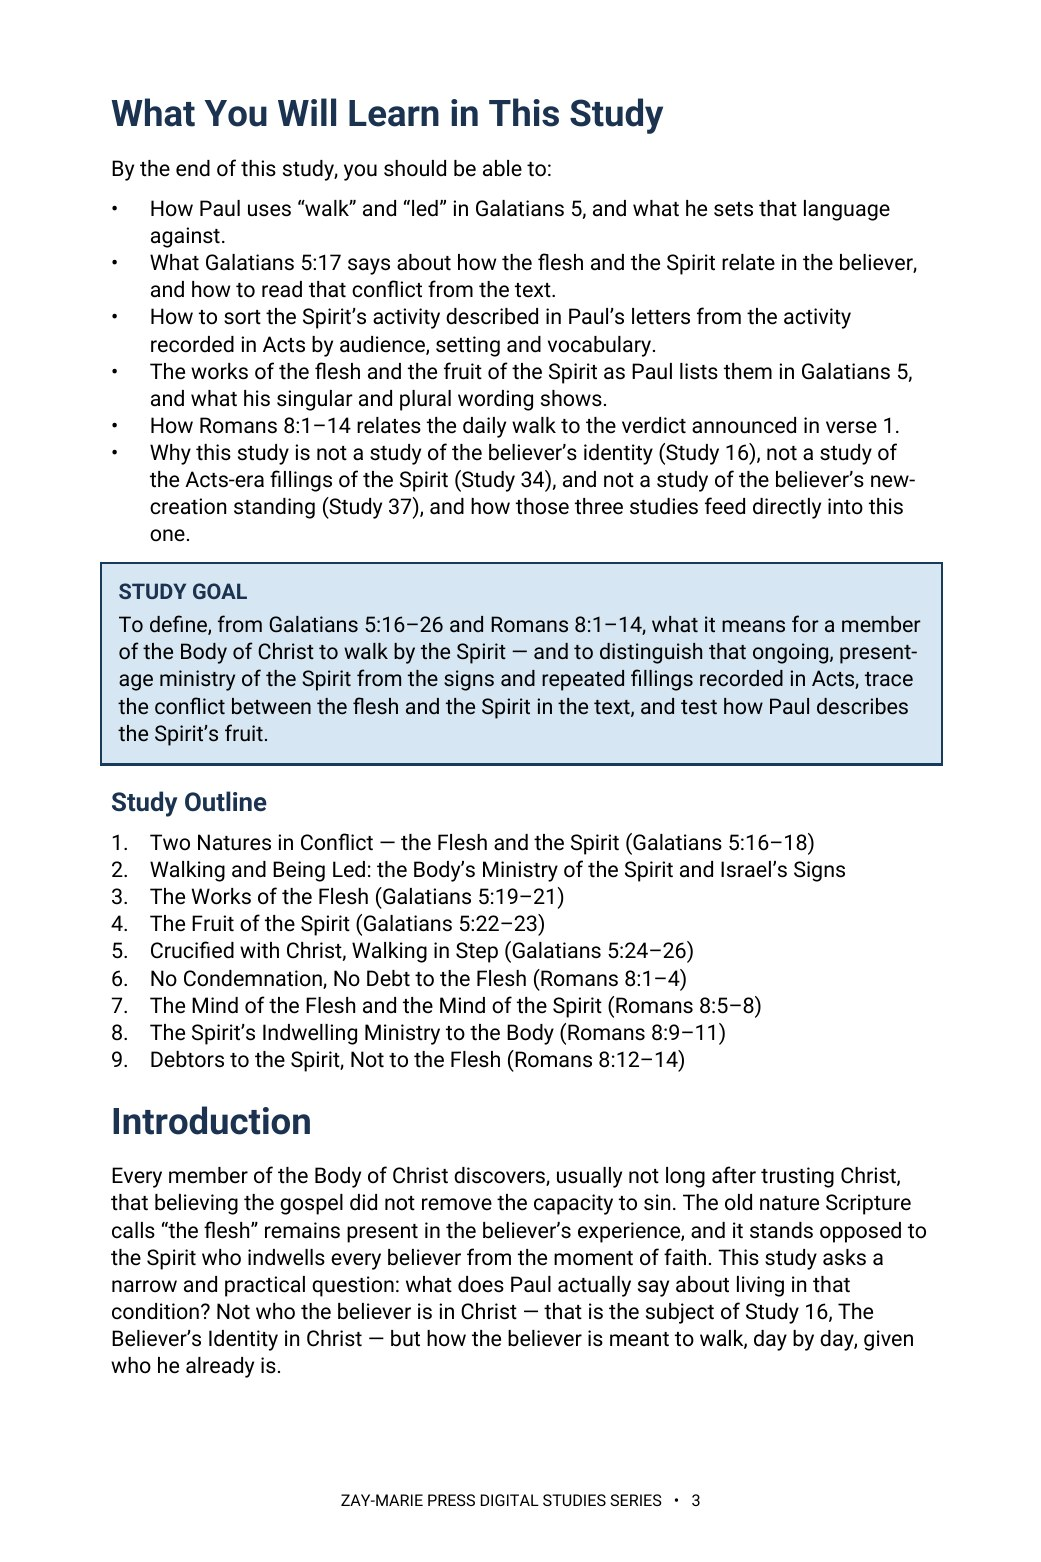
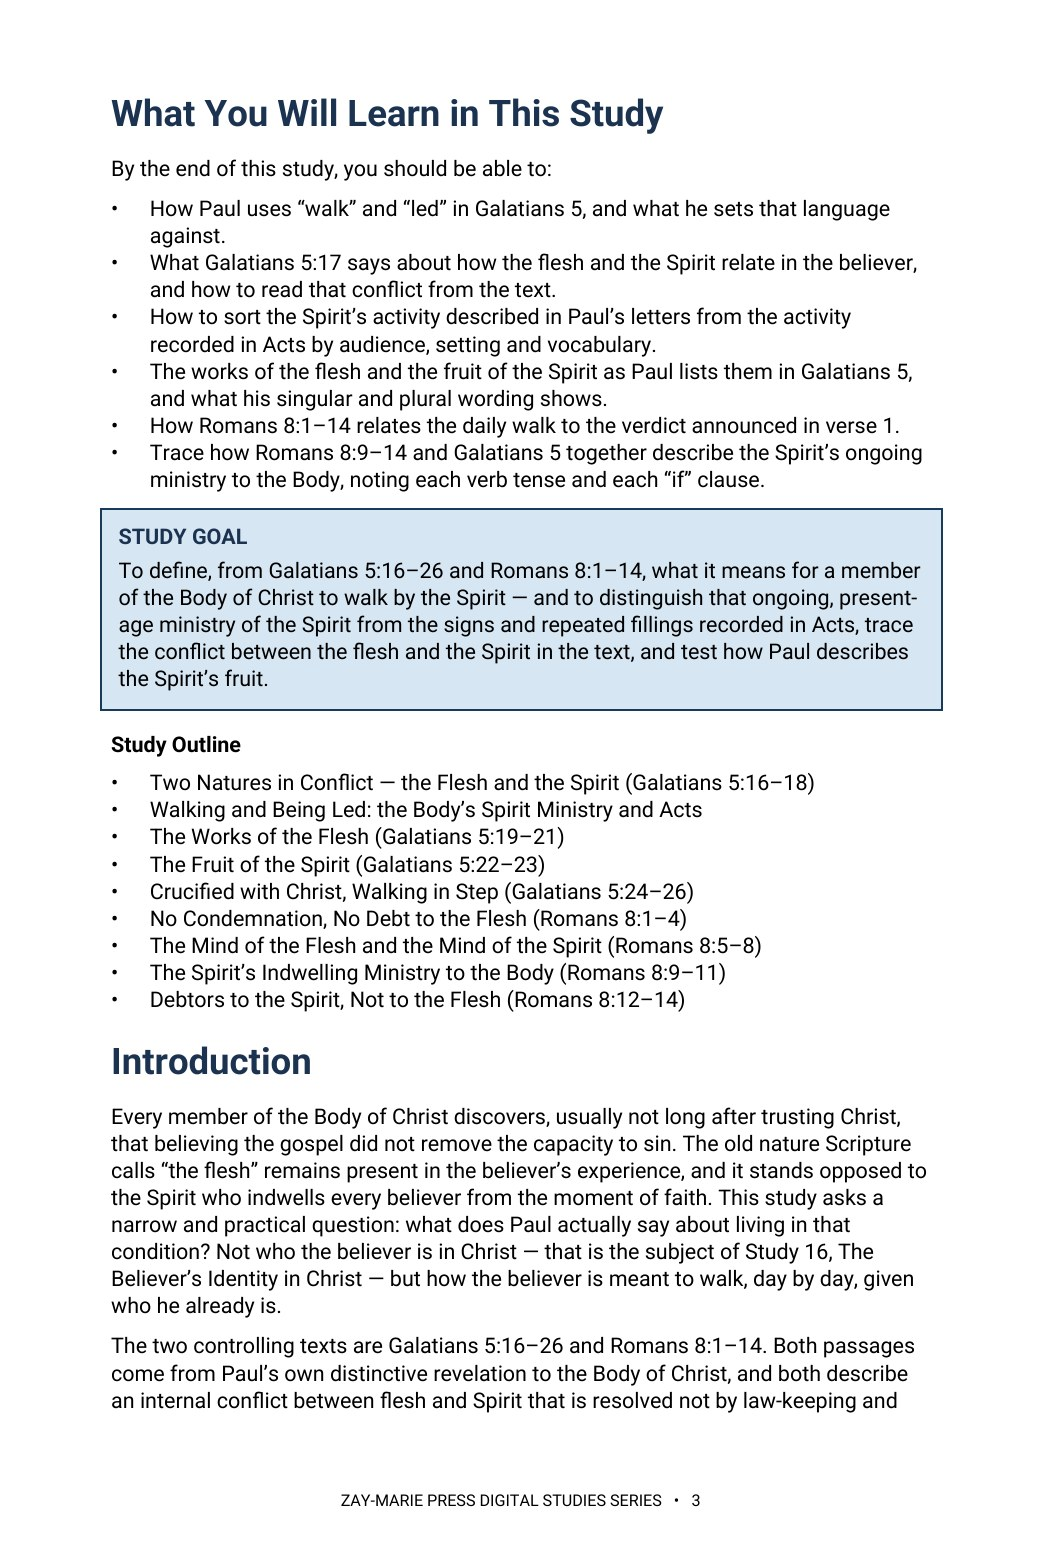
Study 44: Acts-era signs wording ruling applied, rebuilt previews
Claude-Session: https://claude.ai/code/session_01HC7bs9KYP2scp4hCL6DkTp

Changed region(s): [[0.0922, 0.2766, 0.9222, 0.9219]]

diff --git a/build-tools/studies/b44/ed44.py b/build-tools/studies/b44/ed44.py
@@ -1,0 +1,19 @@
+from edcommon import *
+KEEP={'STUDY GOAL','WALKING IS NOT TRYING HARDER','THE BODY’S SPIRIT MINISTRY IS NOT MEASURED BY THE SPIRIT’S ACTIVITY RECORDED IN ACTS','THE FRUIT IS SINGULAR','NO CONDEMNATION IS SETTLED STANDING, NOT SINLESS PERFECTION'}
+def apply(els):
+    # WYWL bullet 6: process wording
+    i=find(els,'Why this study is not a study of the believer’s identity')
+    els[i]=mk('bul',[['Trace how Romans 8:9–14 and Galatians 5 together describe the Spirit’s ongoing ministry to the Body, noting each verb tense and each “if” clause.',False,False]])
+    # Study Outline bulleted
+    s=[k for k,e in enumerate(els) if P(e) and e['kind']=='sub' and T(e)=='Study Outline'][0]
+    k=s+1
+    while els[k]['type']=='para' and els[k]['kind']=='num': els[k]['kind']='bul'; k+=1
+    rep(els,'the Body’s Ministry of the Spirit and Israel’s Signs','the Body’s Spirit Ministry and Acts')
+    rep(els,'the Body’s Ministry of the Spirit and Israel’s Signs','the Body’s Spirit Ministry and Acts')
+    rep(els,'THE BODY’S SPIRIT MINISTRY IS NOT ISRAEL’S ACTS-ERA SIGNS','THE BODY’S SPIRIT MINISTRY IS NOT MEASURED BY THE SPIRIT’S ACTIVITY RECORDED IN ACTS')
+    rep(els,'is not Israel’s Acts-era signs, wonders, and repeated fillings (see Study 34 and Study 38)','is not measured by the signs, wonders, and repeated fillings recorded in Acts (see Study 34 and Study 38)')
+    rep(els,'why Israel’s Acts-era signs, wonders, and repeated fillings of the Spirit are not the standard','why the signs, wonders, and repeated fillings of the Spirit recorded in Acts are not the standard')
+    rep(els,'Whose Ministry This Is (the Body, not Israel’s Acts-era signs)','Whose Ministry This Is (the Body’s, not measured by the activity recorded in Acts)')
+    rep(els,'kept distinct from Israel’s Acts-era signs and repeated fillings (Section 2)','kept distinct from the signs and repeated fillings recorded in Acts (Section 2)')
+    number_outline(els)
+    return els

diff --git a/CLAUDE.md b/CLAUDE.md
@@ -26,7 +26,7 @@ These are kept in the repo at `controlling-documents/` and are the current versi
 - **`build-tools/`** — the study rebuild toolkit (scripts, per-study edit files, README), committed 2026-10-04 at the publisher's approval so the retrofit method and every per-study wording edit survive a session reset. Working tools only; the site does not use them. Not a rule.
 **`controlling-documents/Digital_Studies_Relationship_Map_v1.39.md`** — records each study's distinct subject, its related studies, the eight priced six-study collections, the Paul's Missionary Journeys cross-reference map, and the five primary catalog categories (currently version 1.39, covers Studies 1–71; update it as new studies publish, bump the version number, rename the file to match, and log the change in its own version-history table — mirroring the Master Standard's `_vX.Y` filename convention). Check a proposed topic against it before recommending or writing a new study. (2026-09-28: the file was missing from this repo despite this note referencing it; replaced from the publisher's copy and bumped v1.15→v1.25 in the same pass. If this note ever again points to a version not present under `controlling-documents/`, ask the publisher for a copy rather than proceeding without the check.)
 - **`controlling-documents/Digital_Studies_Category_Standard_v1.1.md`** — FINAL and binding (publisher, 2026-10-01): the rules for the five primary catalog categories (Foundations, Israel & Prophecy, Body of Christ, Passages, Doctrinal Themes), the ordered decision procedure for new studies, the precedents, all 71 fixed assignments, and the cover-label form for each category. Read it before placing any card or cover label. Do not ask the publisher where a study belongs; apply the procedure and state the result. Only the publisher changes a ruling; then bump this Standard's version and filename, re-letter the cover, and update the Relationship Map.
-- **`controlling-documents/Doctrinal_Upgrade_Retrofit_Plan_v1.130.md`** — working tracker for retrofitting Studies 1–59 to the 2026-10-02 doctrinal upgrade (Framework/PAM v1.1, Master Standard v1.40, Rules 7–17): withdrawn-wording search keys, impact tiers, waves and the per-study method. Read it before continuing the retrofit in any session; update status, bump the version and rename the file as work proceeds.
+- **`controlling-documents/Doctrinal_Upgrade_Retrofit_Plan_v1.131.md`** — working tracker for retrofitting Studies 1–59 to the 2026-10-02 doctrinal upgrade (Framework/PAM v1.1, Master Standard v1.40, Rules 7–17): withdrawn-wording search keys, impact tiers, waves and the per-study method. Read it before continuing the retrofit in any session; update status, bump the version and rename the file as work proceeds.
 - **`controlling-documents/Doctrinal_Packet_Standard_v0.3.md`** — Doctrinal Packet Standard (DRAFT; §7 approved). Governs the separate Doctrinal Packets product strand (5-page interpretive PDFs per Bible book — a print-friendly cover as page 1 plus 4 content pages, $2.99, KJV, pilot: Genesis, live at `packet-genesis.html`, hub `doctrinal-packets.html`; site pages say "5 Pages", cover styles live in `packets.css`, Old Testament blue and New Testament soft pale green, hub listed in Bible order). **Preview rule (publisher directive, 2026-09-29, packets only):** previews show about one page's worth in two cropped views (top of page 1 through the anchor texts; the chart section) — never the exegesis, architecture, Mystery contrast, logic chain, outline, or closing. Master Standard §16/§17 still govern Digital Studies. Bump the version and rename the file as the Standard is finalized.
 - **`controlling-documents/Preview_Page_Spoiler_Retrofit_Audit_v1.4.md`** — working tracker for the Studies 1–60 preview-page conclusion-spoiler retrofit (see the section below). Read it before continuing that audit in any session; update its status fields and changelog, bump the version, and rename the file to match as the audit proceeds — same `_vX.Y` convention as the other controlling documents. As of v1.1, the website-side half was DONE: all 60 studies' "What You'll Study" text was judged against the rule (methodology documented in the file) and 22 points across 11 studies were rewritten and pushed; an unrelated Study 22 content bug (Study 21's content had leaked into it) was also found and fixed. As of v1.2, the publisher supplied Studies 1–60's interior production PDFs and the interior-PDF half was also surveyed (read-only): 10 studies (37, 41, 45, 47, 48, 49, 51, 52, 53, 54) were found to have at least one interior "What You Will Learn" violation, 50 studies were confirmed compliant, and the orphaned `assets/study-45-sanctification-under-grace.docx` (removed from the repo per the publisher in v1.0) was confirmed word-for-word identical to Study 45's actual production interior PDF content. As of v1.3, the publisher supplied editable DOCX sources for all 10 violating studies; all 15 violating points were rewritten and approved, delivered as corrected final PDFs, and — along the way — a second defect was found and fixed (Studies 47 and 48's source DOCX still had an unintegrated cover placeholder despite both being long-published live with real covers; fixed by inserting the existing approved cover art). The website's "What You Will Learn" preview image (`study-NN-page-3.jpg`) was regenerated from the corrected content for all 10 studies and pushed to `main` (commit `cea1859`), verified against a fresh clone. **The website side of this audit is now fully compliant for all 60 studies.** Outstanding: the publisher's purchasable interior PDF files themselves have corrected versions delivered, but distribution to existing purchasers was decided by the publisher on 2026-09-29: silent swap of the files behind the existing downloads, no reissue notice (recorded in the v1.4 changelog entry; the product files are not in this repo).
 

diff --git a/controlling-documents/Doctrinal_Upgrade_Retrofit_Plan_v1.131.md b/controlling-documents/Doctrinal_Upgrade_Retrofit_Plan_v1.131.md
@@ -223,3 +223,4 @@ Working tracker for correcting published studies to the Framework/PAM v1.1, Mast
 - v1.128 (2026-10-04): Study 31 rebuilt in Roboto at 10 pt on the current page, 19 pages (was 18), from the publisher's older 'FINAL Roboto Source' DOCX (the v1.41 retrofitted DOCX was not available), with the retrofit re-applied in new wording, publisher-approved on review. Line 232 (Rule 19): 'provides the ground of salvation' replaced by 'bears the judicial consequences of sin (Rom. 5:8–9; Col. 2:13–15)'; the other finished-work lines stay KEEP (v1.53). Also: lead-in standardized; the Framework/PAM sentence replaced by a distinct-programs / audience-markers sentence; 'Acts Overlap framework' and 'five-question framework' reworded; Acts 28 'national judicial suspension' conformed in body and Key Distinctions with the boundary sentence; overlap and Rule 17 sentences added; a Body-absent-from-the-Day-of-the-Lord sentence added after the Matthew 24–25 paragraph; reader-facing anchors for Colossians 3:23–25 and for 2 Peter and Jude; Teaching Outline numbered. The v1.41 Galatians 3 sentence was not re-added (this source does not discuss Galatians 3 in the sections). Wording of the added sentences may differ from the previously published v1.41 interior. Previews 2, 3, 5 re-rendered; site.js 31:19. Wave 5 item 'Study 31 line 232' closed.
 - v1.129 (2026-10-04): Study 43 rebuilt in Roboto at 10 pt on the current page, 16 pages (was 17), from the publisher's FINAL ROBOTO DOCX. Acts 28 conformed in two places: Section 5 'national judicial suspension … not abolition and not a transfer; Israel’s promises stand' became 'nationally suspended' with the not-canceled/transferred/absorbed line and the suspension-boundary sentence; Section 9 local-turn line now says 'not the national suspension of Israel’s program'. No other changes (Rule 18 and Rule 19 already conforming; imprint matches v1.51). Website: page count 17 to 16 (page text, buy panel and site.js); third preview moved from page 8 (retired Acts 28 wording and settled conclusions) to page 4, What Paul Calls His Gospel (names table); study-43-page-8.jpg removed. Publisher-approved 2026-10-04.
 - v1.130 (2026-10-04): Build-tools item closed, publisher-approved yes: the rebuild toolkit (scripts, run recipes, per-study edNN.py and cfgNN.json, README) committed under build-tools/; derived element files, covers and source DOCX not stored. CLAUDE.md carries a pointer line. Remaining Wave 5 items: Study 44 'Israel’s Acts-era signs' ruling (needs the DOCX); Study 48 section 12 TOC wrap; Study 50 Section 5.1 / 2 Thess 2:13–14; Study 47 Romans 15:27 sentence; Study 61 PDF-only retrofit.
+- v1.131 (2026-10-04): Study 44 rebuilt in Roboto at 10 pt on the current page, 19 pages (unchanged), from the publisher's FINAL ROBOTO DOCX. Publisher ruling on 'Israel’s Acts-era signs': the phrase assigned the signs to Israel, against the overlap ruling (Paul's fillings and signs in Acts 9–28 reported from the text, assigned to no single program); replaced in all nine places with neutral 'recorded in Acts' wording. Callout title now 'THE BODY’S SPIRIT MINISTRY IS NOT MEASURED BY THE SPIRIT’S ACTIVITY RECORDED IN ACTS'; Section 2 heading shortened to 'Walking and Being Led: the Body’s Spirit Ministry and Acts' so the heading and TOC line do not wrap; review question 3, Teaching Outline label, summary bullet and Final Synthesis element list conformed. What You Will Learn bullet 6 (a 'not a study of…' line) replaced by a process bullet; Study Outline converted from numbered to bulleted. Website: previews 2, 3 and 8 re-rendered from the final PDF; page count and text unchanged. Item closed. Publisher-approved 2026-10-04.

diff --git a/controlling-documents/Digital_Studies_PAM_Audit_v1.225.md b/controlling-documents/Digital_Studies_PAM_Audit_v1.225.md
@@ -454,3 +454,4 @@ Study 15 PDF not yet supplied. Typography: none of Studies 2, 3, 6, 8 is in EB G
 - v1.222 (2026-10-04): Study 31 rebuilt at 10 pt from the older source with the retrofit re-applied and the line-232 Rule 19 fix, 19 pages (see Retrofit Plan v1.128).
 - v1.223 (2026-10-04): Study 43 rebuilt at 16 pages with two Acts 28 conformings and a new third preview (see Retrofit Plan v1.129).
 - v1.224 (2026-10-04): build-tools/ committed (see Retrofit Plan v1.130).
+- v1.225 (2026-10-04): Study 44 rebuilt with the Acts-era signs ruling applied (see Retrofit Plan v1.131).
